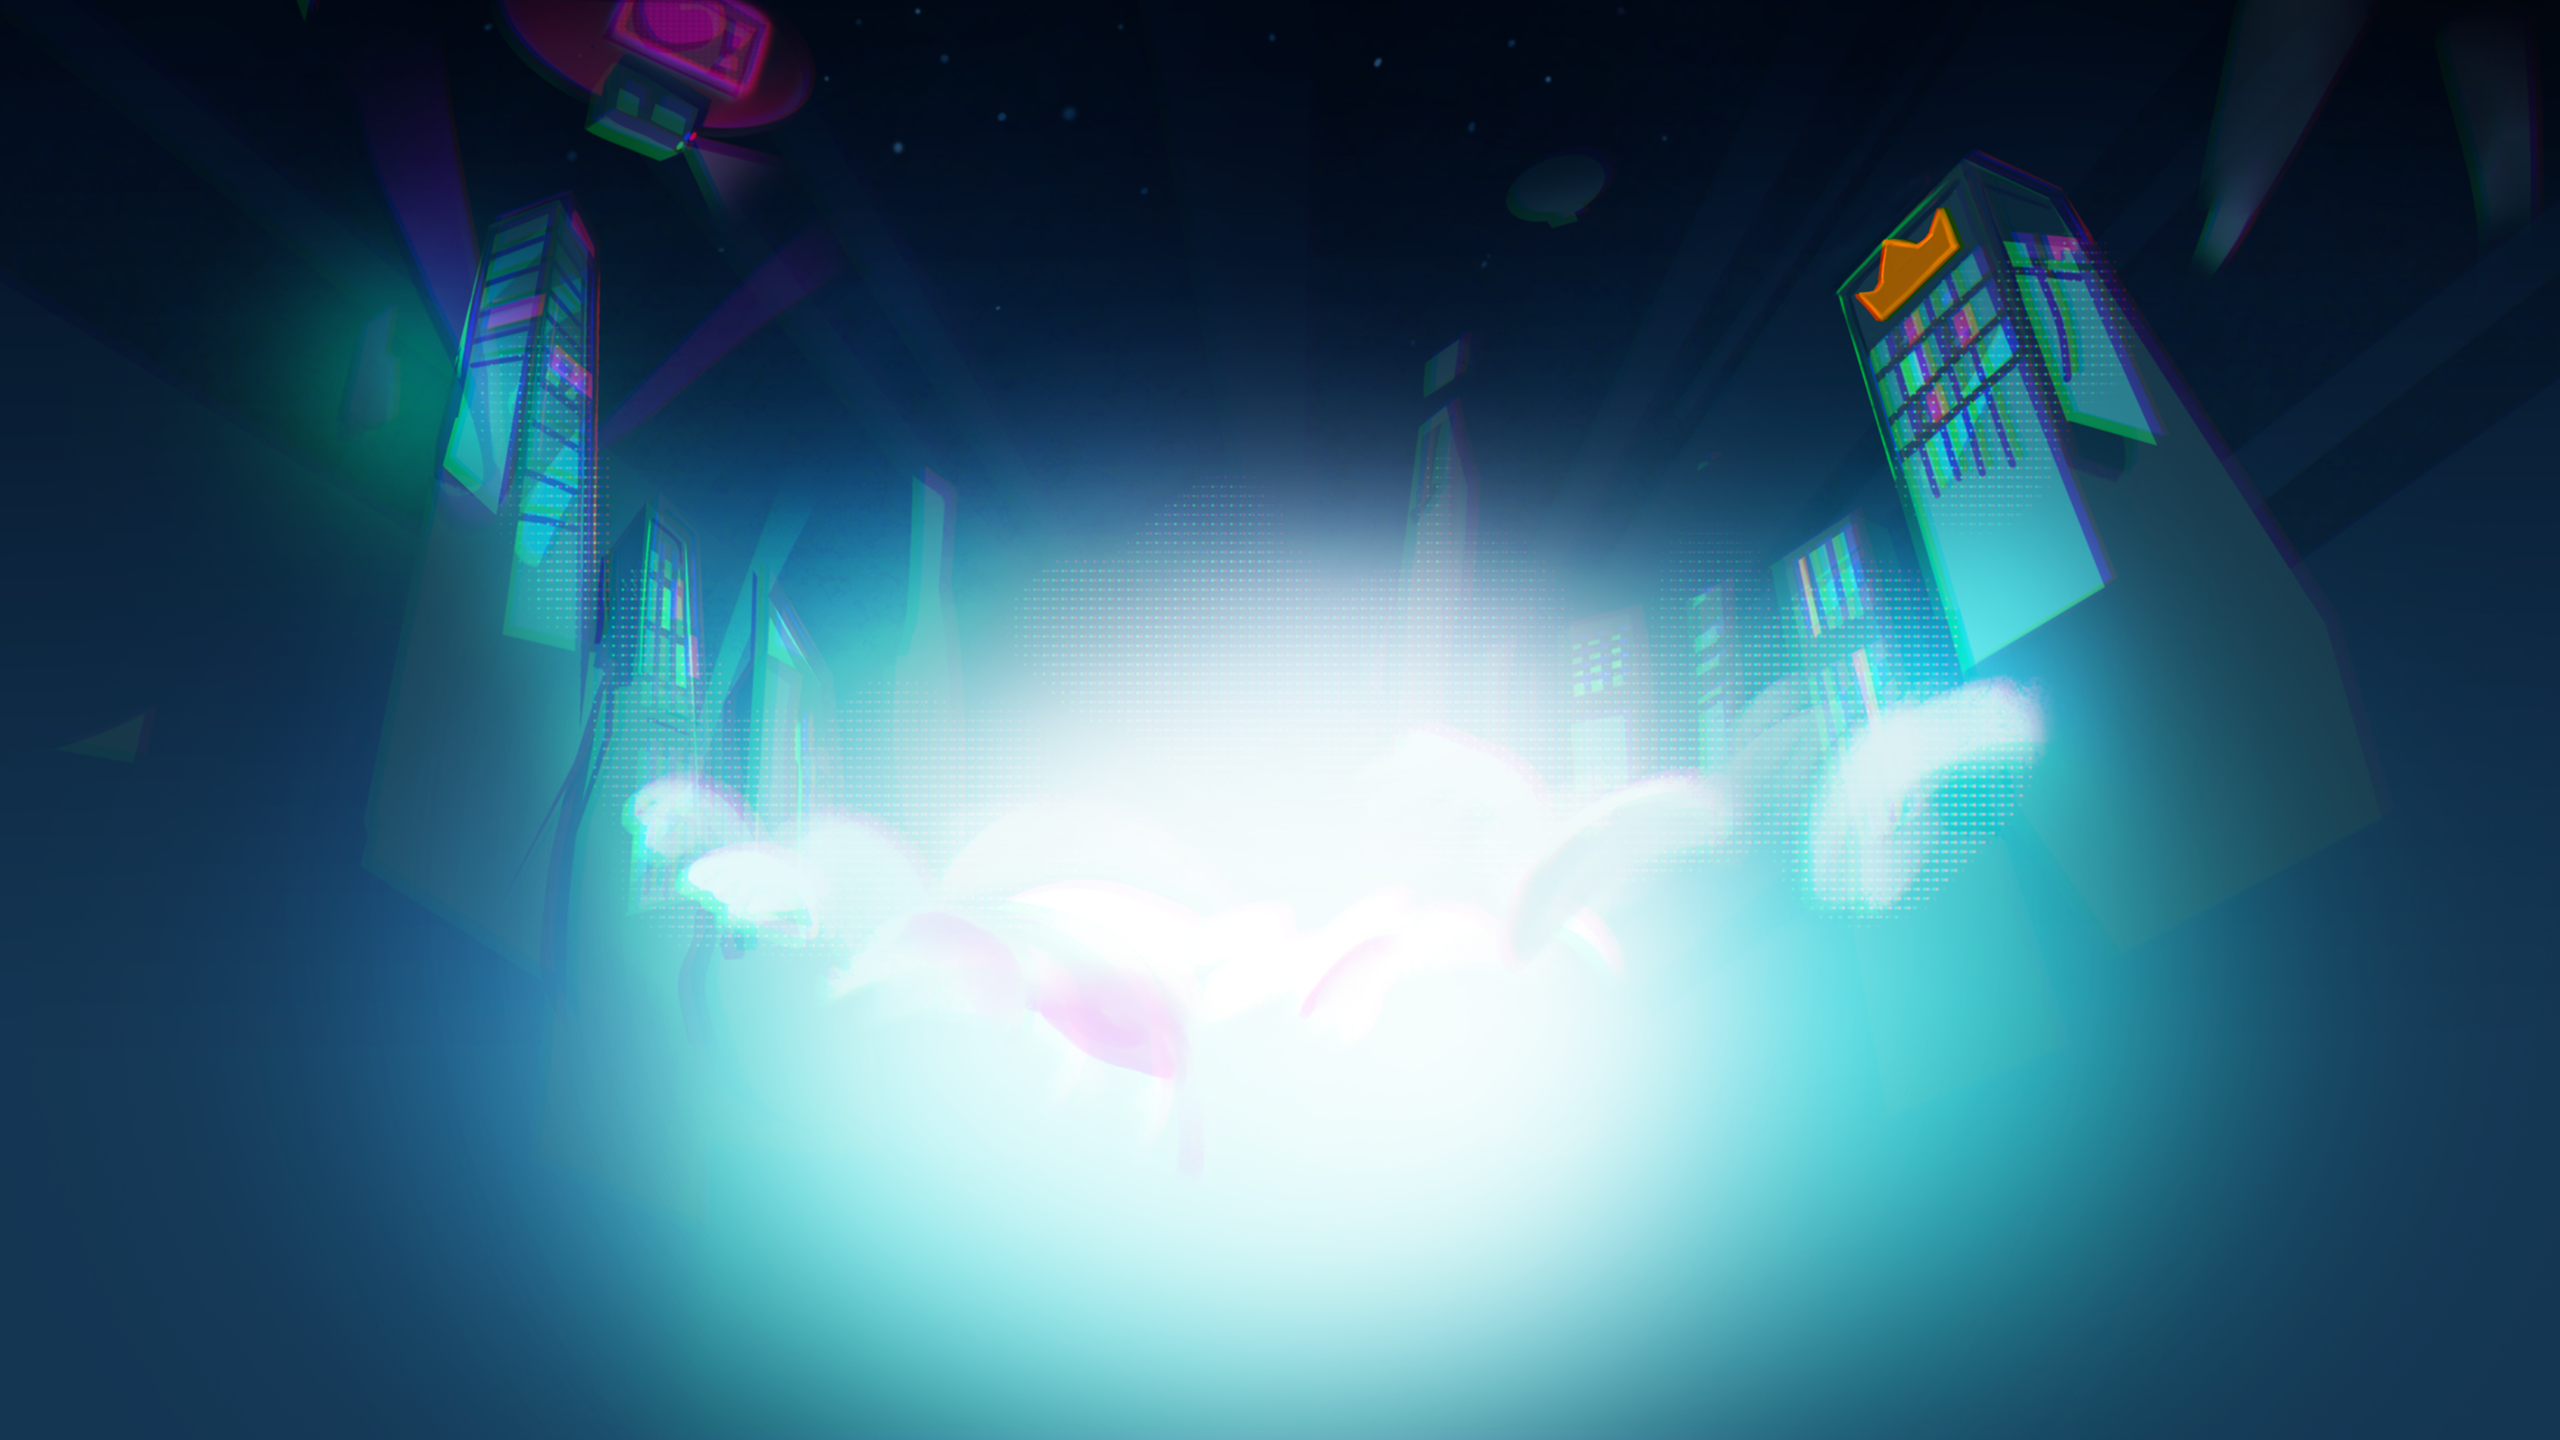
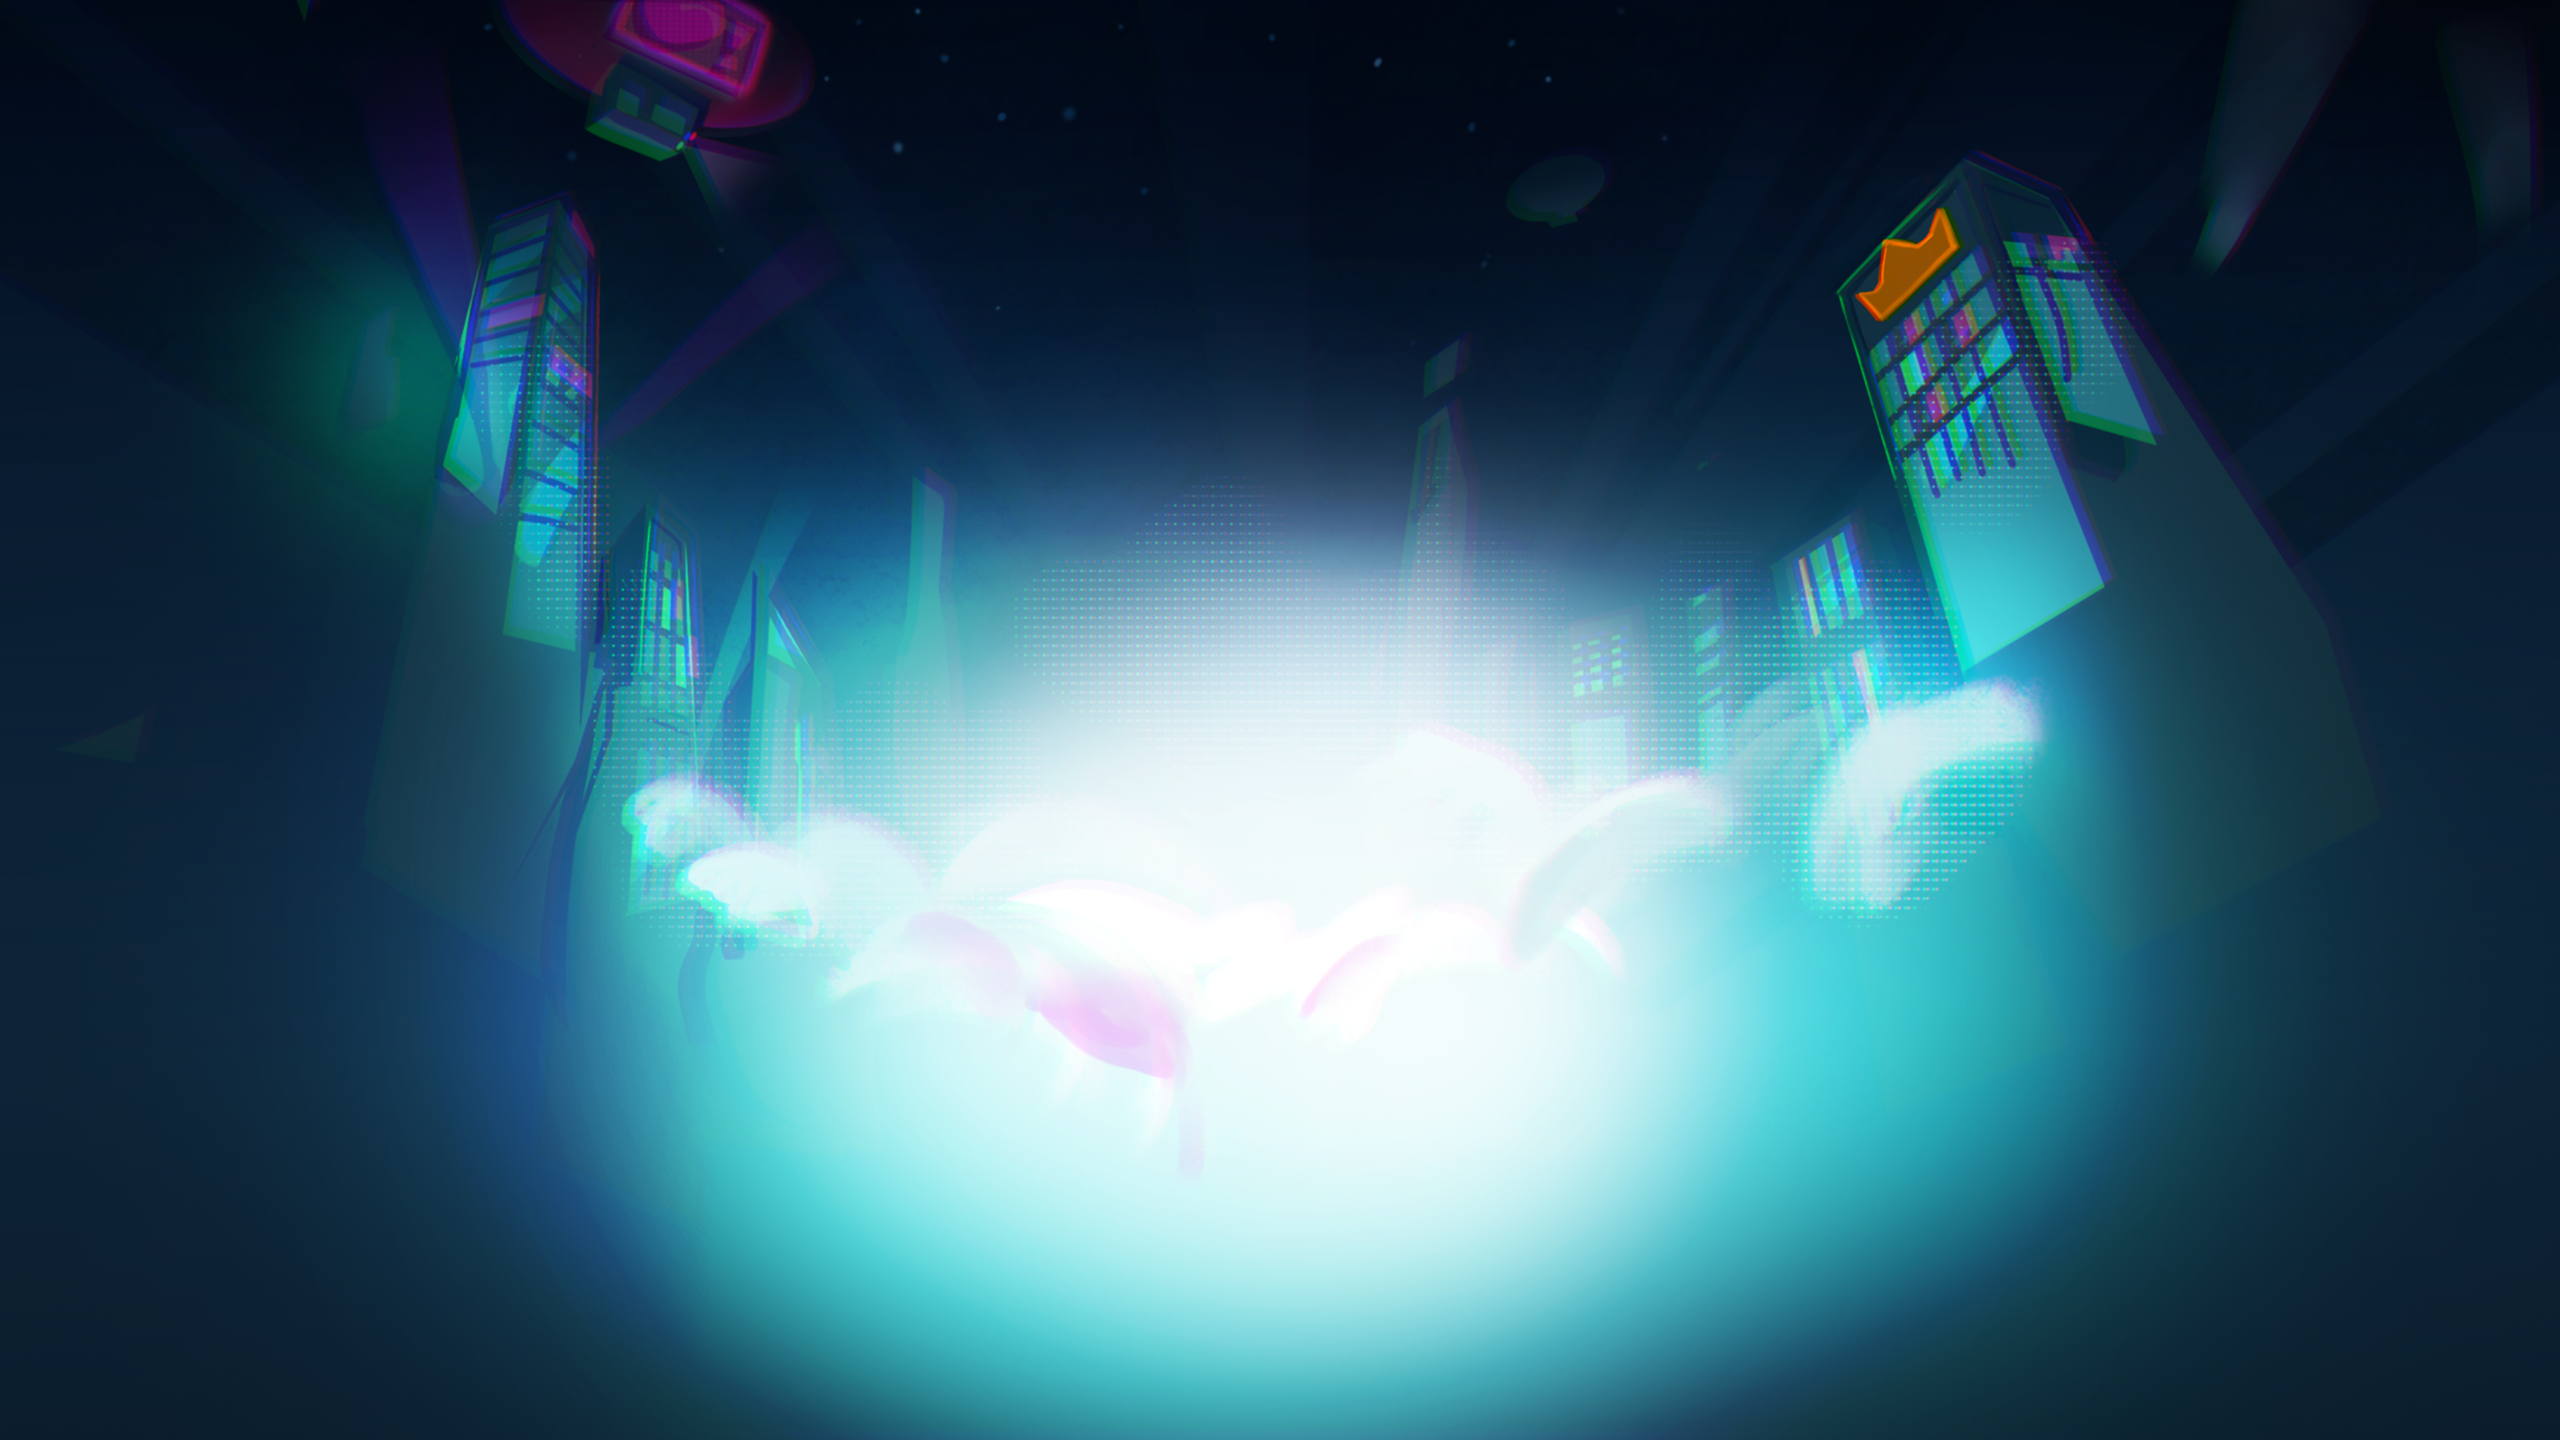
fix(ParallaxBackground): fix background image

diff --git a/src/modules/ParallaxBackground/ParallaxBackground.scss b/src/modules/ParallaxBackground/ParallaxBackground.scss
@@ -36,6 +36,7 @@
   }
 
   @include mixins.vp-1920 {
+    --background-position: 100% 100%, 3.6% 100%, 50% 19.5%, 33% 47%, 100% 6.4%, 50% bottom, 50% center;
     background-image:
       url("/images/clown-1920@1x.png"),
       url("/images/wolf-1920@1x.png"),
@@ -45,7 +46,6 @@
       url("/images/explosion-1920@1x.png"),
       url("/images/background-1920@1x.png");
     background-size: func.rem(671), func.rem(568), func.rem(1028), func.rem(603), func.rem(298), 100%, cover;
-    --background-position: 100% 100%, 3.5% 100%, 50% 19%, 33% 47%, 100% 6.4%, 50% bottom, 50% center;
 
     @include mixins.retina {
       background-image:
@@ -60,6 +60,7 @@
   }
 
   @include mixins.vp-1280 {
+    --background-position: 100% 100%, 3.6% 100%, 50% 19.5%, 33% 47%, 100% 6%, 50% bottom, 50% center;
     background-image:
       url("/images/clown-1280@1x.png"),
       url("/images/wolf-1280@1x.png"),
@@ -83,7 +84,7 @@
   }
 
   @include mixins.vp-1024 {
-    --background-position: 100% 100%, 0.4% 100%, 50% 19.5%, 33% 47%, 100% 6.4%, 50% bottom, 50% center;
+    --background-position: 100% 100%, 0.4% 100%, 50% 19.5%, 32% 47%, 100% 6.4%, 50% bottom, 50% center;
 
     background-image:
       url("/images/clown-1024@1x.png"),
@@ -108,6 +109,7 @@
   }
 
   @include mixins.vp-768 {
+    --background-position: 100% 100%, 0% 100%, 73.5% 12.9%, 8% 37%, 100% 0%, 50% bottom, 50% center;
     background-image:
       url("/images/clown-768@1x.png"),
       url("/images/wolf-768@1x.png"),
@@ -116,7 +118,7 @@
       url("/images/rocket-768@1x.png"),
       url("/images/explosion-768@1x.png"),
       url("/images/background-768@1x.png");
-    background-size: func.rem(448), func.rem(379), func.rem(686), func.rem(403), func.rem(143), 100%, cover;
+    background-size: func.rem(242), func.rem(232), func.rem(680), func.rem(493), func.rem(155), 100%, cover;
 
     @include mixins.retina {
       background-image:
